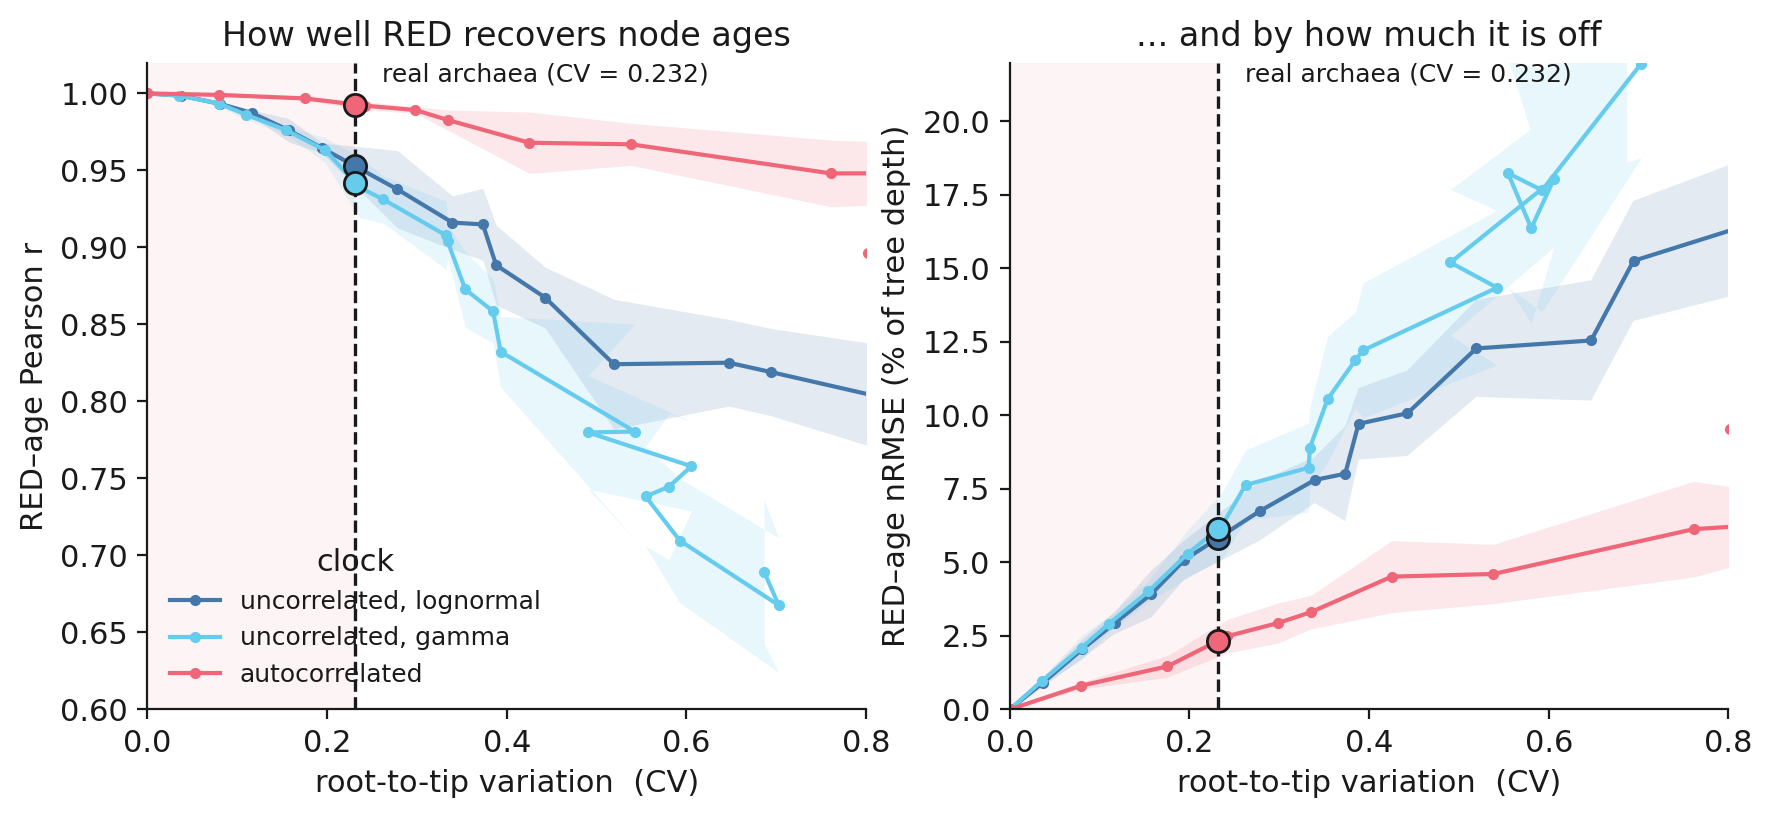
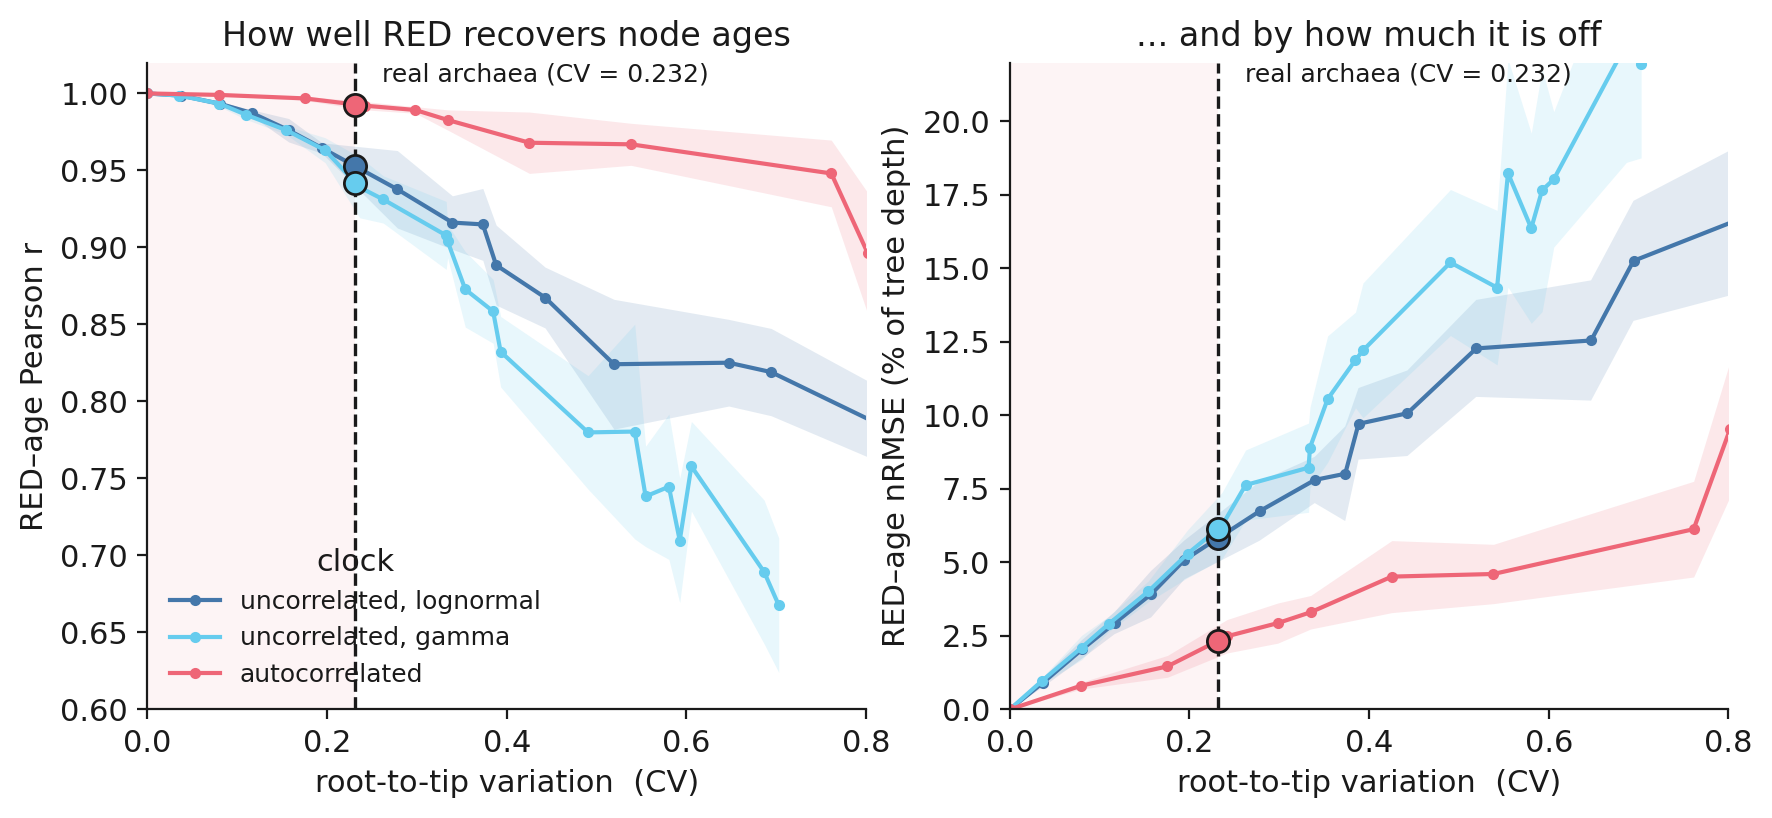
figures: fix the RED line plots, and give the conditioning panels colour keys
**The RED accuracy plot drew its lines out of order.** `red_bridge` puts the
realised CV on the x axis, but the rows come in σ order and CV is a noisy
estimate over 8 replicates rather than a monotone function of σ — three to six
steps per clock go backwards. Plotted in row order the line doubled back on
itself and `fill_between` turned every reversal into a bowtie. Sorting by x is
what a line through these points means.

**The calibration plot had pink wedges hanging from the top.** The
autocorrelated clock climbs steeply and its ±1 s.d. band is wide, so past its
crossing the band's lower edge wandered in and out of the axis. Each curve now
stops one point after it leaves the frame, which is an artefact of clipping a
band rather than anything in the data.

**The conditioning panels get colour keys**, under each row label: swatches for a
discrete driver or a gene's presence, and the ramp itself with its ends named for
a continuous one — a swatch per value would say nothing there. The diverging
body-size scale also names its middle, since white meaning "has not moved" is the
whole point of centring it.

Also: the little arrow inside the diagram's target box is gone (`→ pathogenic`
is just `pathogenic`; the chain drawn below it already says which transition is
driven), and the figures export at dpi 182 rather than 140. The gallery embeds
at 1200px rather than 920 to match, because the detail view and the click-to-zoom
[…]

diff --git a/gallery/helpers.py b/gallery/helpers.py
@@ -253,24 +253,58 @@ def composite_markov(tree_png: str, out: str, draw_fn, *, loc=(0.02, 0.09, 0.34,
     plt.close(fig)
 
 
+def _draw_key(ax, key) -> None:
+    """One row's colour key, drawn into a thin axes: what the colours on the tree above it mean.
+
+    Two shapes, because the trees come in two kinds. A **dict** ``{state: colour}`` is a discrete
+    trait or a gene's presence, and each entry gets a thick line the weight of a branch. A **tuple**
+    ``(cmap, low, [middle,] high)`` is a continuous trait, and gets the ramp itself with its ends
+    named — a swatch per value would be meaningless there.
+    """
+    ax.set_axis_off()
+    if isinstance(key, dict):
+        handles = [plt.Line2D([], [], color=colour, lw=7, solid_capstyle="butt")
+                   for colour in key.values()]
+        ax.legend(handles, list(key), loc="center left", ncol=len(key), frameon=False,
+                  fontsize=13, handlelength=1.5, handletextpad=0.6, columnspacing=2.2,
+                  borderpad=0.0, borderaxespad=0.0)
+        return
+    cmap, *names = key
+    ax.set_xlim(0, 1)
+    ax.set_ylim(0, 1)
+    left, right = 0.055, 0.235                          # the ramp, in axes fractions
+    ax.imshow([[i / 255 for i in range(256)]], aspect="auto", cmap=cmap,
+              extent=(left, right, 0.32, 0.68), zorder=2)
+    ax.text(left - 0.012, 0.5, names[0], ha="right", va="center", fontsize=13)
+    ax.text(right + 0.012, 0.5, names[-1], ha="left", va="center", fontsize=13)
+    if len(names) == 3:                                 # a diverging scale needs its middle named
+        ax.text((left + right) / 2, 0.14, names[1], ha="center", va="top", fontsize=12,
+                color="#555555")
+
+
 def composite_under_diagram(out: str, diagram_png: str, rows, *, width=12.0, diagram_frac=0.42,
-                            pad=0.03, gap=0.30, label=0.36) -> None:
+                            pad=0.03, gap=0.30, label=0.36, key=0.40, dpi=182) -> None:
     """The driver·modifier·target diagram on top, then one labelled panel per row.
 
-    ``rows`` is ``[(png, label), ...]``. Every panel gets an axes box of **its own image's aspect
-    ratio**, so nothing is letterboxed and the diagram sits on the same centre line as the panels
-    under it. Saved without ``bbox_inches="tight"``: cropping to content pulled the crop in on the
-    row labels, which shifted the panels off centre and clipped the bottom one's time axis.
+    ``rows`` is ``[(png, label), ...]``, or ``[(png, label, key), ...]`` to put a colour key under
+    the label — see :func:`_draw_key` for the two shapes a key takes. Every panel gets an axes box of
+    **its own image's aspect ratio**, so nothing is letterboxed and the diagram sits on the same
+    centre line as the panels under it. Saved without ``bbox_inches="tight"``: cropping to content
+    pulled the crop in on the row labels, which shifted the panels off centre and clipped the bottom
+    one's time axis.
 
-    ``width``, ``gap`` and ``label`` are inches; ``pad`` and ``diagram_frac`` are fractions of
-    ``width``.
+    ``width``, ``gap``, ``label`` and ``key`` are inches; ``pad`` and ``diagram_frac`` are fractions
+    of ``width``. The default ``dpi`` is deliberately high: these figures are read by zooming into a
+    tree, and at 140 the tip labels went to mush.
     """
     diagram = mpimg.imread(diagram_png)
-    imgs = [mpimg.imread(png) for png, _ in rows]
+    imgs = [mpimg.imread(row[0]) for row in rows]
+    keys = [row[2] if len(row) > 2 else None for row in rows]
     body = width * (1 - 2 * pad)
     heights = [body * im.shape[0] / im.shape[1] for im in imgs]
+    tops = [label + (key if k is not None else 0.0) for k in keys]
     h_diagram = diagram_frac * width * diagram.shape[0] / diagram.shape[1]
-    height = gap + h_diagram + sum(h + label + gap for h in heights)
+    height = gap + h_diagram + sum(h + t + gap for h, t in zip(heights, tops))
     fig = plt.figure(figsize=(width, height))
 
     def box(x, y, w, h):
@@ -279,14 +313,17 @@ def composite_under_diagram(out: str, diagram_png: str, rows, *, width=12.0, dia
     y = height - h_diagram
     fig.add_axes(box(width * (1 - diagram_frac) / 2, y, diagram_frac * width,
                      h_diagram)).imshow(diagram)
-    for im, h, (_, name) in zip(imgs, heights, rows):
-        y -= label + h
+    for im, h, top, k, row in zip(imgs, heights, tops, keys, rows):
+        y -= top + h
         fig.add_axes(box(pad * width, y, body, h)).imshow(im)
-        fig.text(pad, (y + h + 0.08) / height, name, fontsize=15, ha="left", va="bottom")
+        fig.text(pad, (y + h + top - label + 0.08) / height, row[1], fontsize=15, ha="left",
+                 va="bottom")
+        if k is not None:
+            _draw_key(fig.add_axes(box(pad * width, y + h, body, key)), k)
         y -= gap
     for ax in fig.axes:
         ax.set_axis_off()
-    fig.savefig(out, dpi=140)
+    fig.savefig(out, dpi=dpi)
     plt.close(fig)
 
 

diff --git a/analyses/red/figures.py b/analyses/red/figures.py
@@ -116,6 +116,11 @@ def fig_observable(res):
 
 def fig_clock_recovery(res):
     fig, ax = plt.subplots(figsize=(6.2, 4.2))
+    # The autocorrelated clock climbs steeply and its ±1 s.d. band is wide, so past its crossing the
+    # band's lower edge wanders in and out of the top of the axis and leaves pink wedges hanging
+    # there — an artefact of clipping a band, not anything in the data. Each curve is therefore drawn
+    # only while it is on the axis, one point past the top so the line still leaves the frame.
+    top = 0.7
     tgt = res["target_cv"]
     # The crossings of the two uncorrelated clocks are ~0.05 apart in σ, so their labels are
     # staggered in depth rather than laid side by side, where they would overprint.
@@ -123,6 +128,8 @@ def fig_clock_recovery(res):
         spreads = np.array(fam["spreads"])
         cv = np.array([r["cv"] for r in fam["rows"]])
         sd = np.array([r["cv_sd"] for r in fam["rows"]])
+        keep = np.searchsorted(np.maximum.accumulate(cv), top) + 1   # first point off the top, kept
+        spreads, cv, sd = spreads[:keep], cv[:keep], sd[:keep]
         ax.plot(spreads, cv, "-o", ms=3, color=COLORS[dist], label=LABELS[dist])
         ax.fill_between(spreads, cv - sd, cv + sd, color=COLORS[dist], alpha=0.15, lw=0)
         rec = fam["recovered_spread"]
@@ -132,7 +139,7 @@ def fig_clock_recovery(res):
     ax.axhline(tgt, color=INK, lw=1.2, ls="--")
     # The sweeps run to σ = 2, far past every crossing; the axis stops where the read-off is legible.
     ax.set_xlim(0, 1.0)
-    ax.set_ylim(0, 0.7)
+    ax.set_ylim(0, top)
     ax.text(0.02, tgt, f"real archaea, CV = {tgt:.3f}", va="bottom", ha="left", fontsize=10)
     ax.set_xlabel("clock heterogeneity  σ")
     ax.set_ylabel("root-to-tip variation  (CV)")
@@ -147,11 +154,17 @@ def fig_red_bridge(res):
     fig, axes = plt.subplots(1, 2, figsize=(10.2, 4.2))
     tgt = res["target_cv"]
     for dist, fam in res["families"].items():
-        cv = np.array([r["cv"] for r in fam["rows"]])
-        r = np.array([r["r"] for r in fam["rows"]])
-        rsd = np.array([r_["r_sd"] for r_ in fam["rows"]])
-        ne = np.array([r_["nrmse"] for r_ in fam["rows"]]) * 100
-        nesd = np.array([r_["nrmse_sd"] for r_ in fam["rows"]]) * 100
+        # The rows come in σ order, but this figure's x axis is the *realised* CV, and CV is a noisy
+        # estimate over 8 replicates rather than a monotone function of σ — a few steps go backwards.
+        # Plotted in row order the line therefore doubled back on itself, and `fill_between` turned
+        # each reversal into a bowtie. Sorting by x is what a line through these points means.
+        order = np.argsort([r["cv"] for r in fam["rows"]])
+        rows = [fam["rows"][i] for i in order]
+        cv = np.array([r["cv"] for r in rows])
+        r = np.array([r["r"] for r in rows])
+        rsd = np.array([r_["r_sd"] for r_ in rows])
+        ne = np.array([r_["nrmse"] for r_ in rows]) * 100
+        nesd = np.array([r_["nrmse_sd"] for r_ in rows]) * 100
         axes[0].plot(cv, r, "-o", ms=3, color=COLORS[dist], label=LABELS[dist])
         axes[0].fill_between(cv, r - rsd, r + rsd, color=COLORS[dist], alpha=0.15, lw=0)
         axes[1].plot(cv, ne, "-o", ms=3, color=COLORS[dist], label=LABELS[dist])

diff --git a/gallery/joining.py b/gallery/joining.py
@@ -298,7 +298,10 @@ def trait_drives_trait(out):
                               draw=h.draw_conditioning_curve, driver="temperature", curve=factor,
                               vrange=(min(driver.values()), max(driver.values())),
                               value_label="temperature", target="size diffusion", target_base=0.35)
-    h.composite_under_diagram(out, diag, [(pngs[0], "temperature"), (pngs[1], "body size")])
+    h.composite_under_diagram(out, diag,
+                              [(pngs[0], "temperature", ("viridis", "cold", "warm")),
+                               (pngs[1], "body size",
+                                ("coolwarm", "smaller", "has not moved", "larger"))])
 
 
 def gene_drives_trait(out):
@@ -340,7 +343,7 @@ def gene_drives_trait(out):
                               driver="tox", states=["absent", "present"],
                               switch={"present->absent": 0.13},   # the family is lost, not regained
                               mapping={"present": 40, "absent": 1},
-                              target="→ pathogenic",
+                              target="pathogenic",
                               target_base=0.02, state_colors=_TOX,
                               # the target is itself a discrete trait, so it gets its own chain:
                               # what the gene drives is the rate of *these* two arrows
@@ -349,7 +352,8 @@ def gene_drives_trait(out):
                                              "pathogenic->harmless": 0.6},
                               target_colors=_DISEASE,
                               target_driven="harmless->pathogenic")
-    h.composite_under_diagram(out, diag, [(pngs[0], "the toxin family"), (pngs[1], "pathogenicity")])
+    h.composite_under_diagram(out, diag, [(pngs[0], "the toxin family", _TOX),
+                                          (pngs[1], "pathogenicity", _DISEASE)])
 
 
 _C_BISSE = '''\
@@ -674,12 +678,15 @@ def module_drives_metabolism(out):
     diag = h.conditioning_png(out.replace(".png", "_diag.png"),
                               draw=h.draw_conditioning_curve, driver="aerobic module", curve=step,
                               vrange=(0.0, 1.0), value_label="fraction of the module present",
-                              target="→ aerobic", target_base=0.3,
+                              target="aerobic", target_base=0.3,
                               target_states=["anaerobic", "aerobic"],
                               target_switch={"anaerobic->aerobic": 6.0,
                                              "aerobic->anaerobic": 0.3},
                               target_colors=_METAB, target_driven="anaerobic->aerobic")
-    h.composite_under_diagram(out, diag, [(pngs[0], "the aerobic module"), (pngs[1], "metabolism")])
+    h.composite_under_diagram(out, diag,
+                              [(pngs[0], "the aerobic module",
+                                ("viridis", "none of it", "all of it")),
+                               (pngs[1], "metabolism", _METAB)])
 
 
 _C_GENE_TRAIT = '''\

diff --git a/gallery/build.py b/gallery/build.py
@@ -61,7 +61,13 @@ def render_all():
             print("rendered", ex.id)
 
 
-def _data_uri(path, maxw=920):
+#: The widest an embedded figure is stored at. The detail view and the click-to-zoom lightbox read
+#: the same data URI as the card, so this is also the resolution anyone zooming in actually gets —
+#: at 920 the conditioning figures went to mush on a tree with 45 tips.
+MAXW = 1200
+
+
+def _data_uri(path, maxw=MAXW):
     im = Image.open(path).convert("RGB")
     if im.width > maxw:
         im = im.resize((maxw, round(im.height * maxw / im.width)), Image.LANCZOS)

diff --git a/gallery/traits.py b/gallery/traits.py
@@ -125,7 +125,7 @@ def driven_trait(out):
         switch={"stable->fluctuating": _SWITCH, "fluctuating->stable": _SWITCH},
         mapping={"fluctuating": _FACTOR, "stable": 1}, target="body size", target_base=_BASE,
         target_sub="variance-rate", state_colors=_HABITAT)
-    h.composite_under_diagram(out, diag, [(tree_png, "habitat")])
+    h.composite_under_diagram(out, diag, [(tree_png, "habitat", _HABITAT)])
 
 
 _C_BM = '''\
